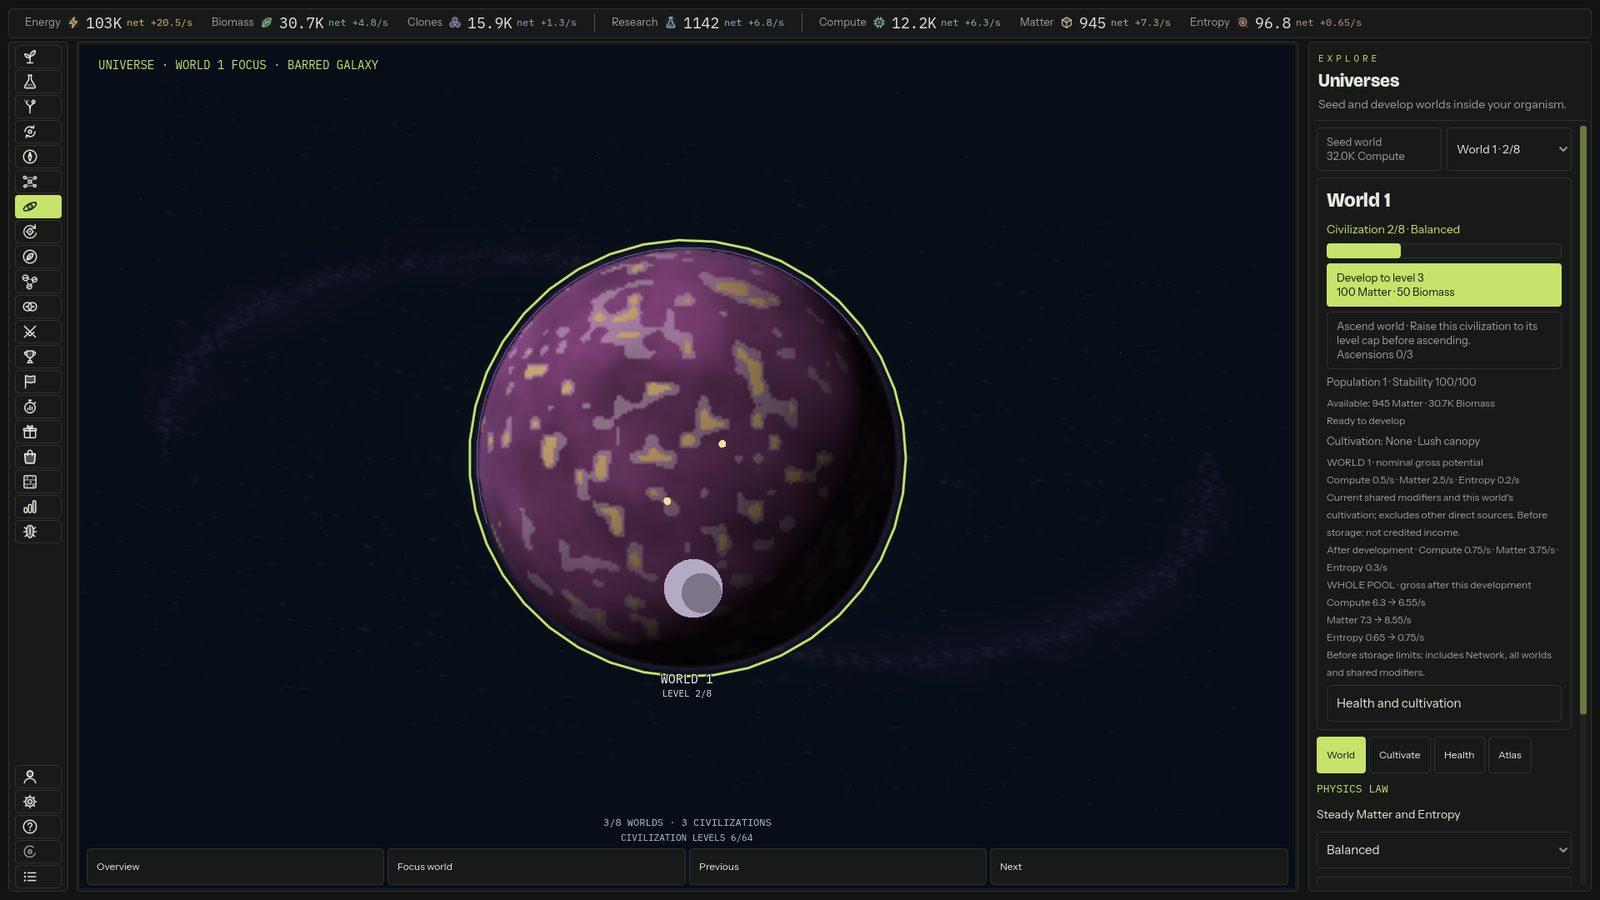
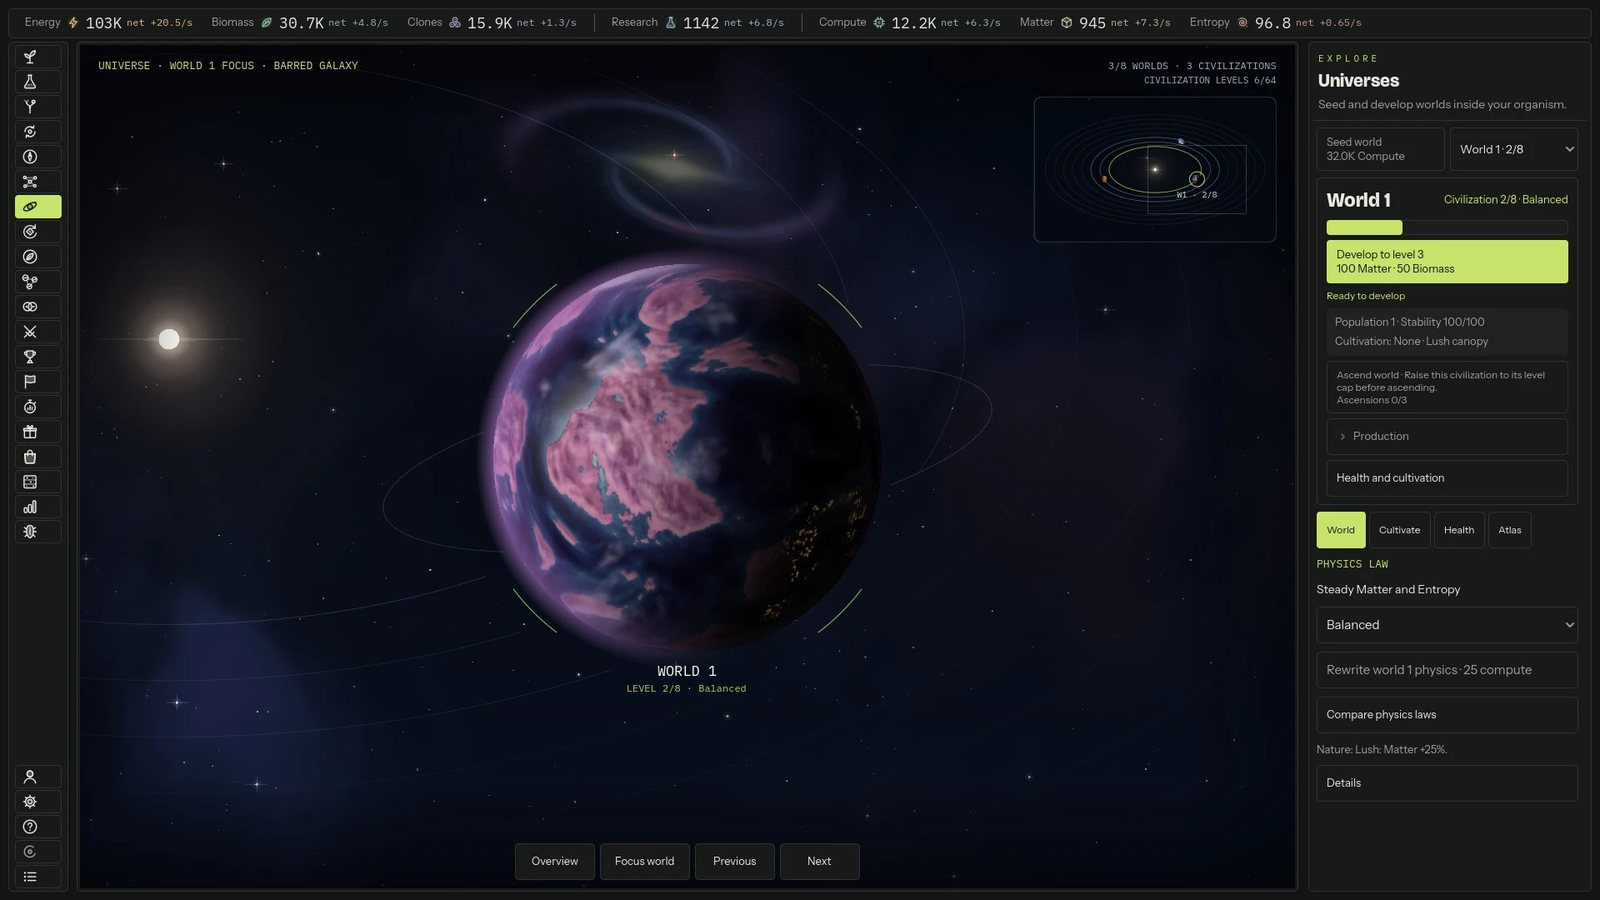
Use the current Steam screenshots on the home page

diff --git a/index.html b/index.html
@@ -16,7 +16,7 @@
 <link rel="preconnect" href="https://fonts.googleapis.com">
 <link rel="preconnect" href="https://fonts.gstatic.com" crossorigin>
 <link rel="stylesheet" href="https://fonts.googleapis.com/css2?family=Bricolage+Grotesque:opsz,wght@12..96,600;12..96,650;12..96,700;12..96,800&display=swap">
-<link rel="stylesheet" href="/style.css?v=20261022b">
+<link rel="stylesheet" href="/style.css?v=20261022c">
 </head>
 <body>
 <a class="skip" href="#main">Skip to content</a>
@@ -67,12 +67,9 @@
     </section>
 
     <section class="gallery" aria-label="Screenshots">
-      <a href="/assets/shots/grow.jpg"><img src="/assets/shots/grow.jpg" alt="A peacock adult in the organism view, with the build panel beside it" loading="lazy" width="1600" height="900"></a>
-      <a href="/assets/shots/stages.jpg"><img src="/assets/shots/stages.jpg" alt="The four life stages of a peacock: founder, developed, juvenile and adult" loading="lazy" width="1600" height="900"></a>
-      <a href="/assets/shots/morphs.jpg"><img src="/assets/shots/morphs.jpg" alt="A standard grey wolf beside a rare red colour morph" loading="lazy" width="1600" height="900"></a>
-      <a href="/assets/shots/pvp.jpg"><img src="/assets/shots/pvp.jpg" alt="A wolf and an octopus facing off in the PvP arena" loading="lazy" width="1600" height="900"></a>
-      <a href="/assets/shots/fighter.jpg"><img src="/assets/shots/fighter.jpg" alt="Species detail page for a golden tabby tiger morph with its stats" loading="lazy" width="1600" height="900"></a>
-      <a href="/assets/shots/universe.jpg"><img src="/assets/shots/universe.jpg" alt="The universe view with a purple planet in orbit" loading="lazy" width="1600" height="900"></a>
+      <a href="/assets/shots/collection.jpg"><img src="/assets/shots/collection.jpg" alt="The organism collection: all 60 species unlocked, each with its role, fight and farm stats and rare morphs" loading="lazy" width="1600" height="900"></a>
+      <a href="/assets/shots/arena.jpg"><img src="/assets/shots/arena.jpg" alt="A wolf strikes an octopus in the AI arena, with a list of opponents to choose from" loading="lazy" width="1600" height="900"></a>
+      <a href="/assets/shots/universe.jpg"><img src="/assets/shots/universe.jpg" alt="The universe view: a pink and blue world in orbit, ready to develop to level 3" loading="lazy" width="1600" height="900"></a>
     </section>
 
     <section class="wishlist" aria-labelledby="wl-title">

diff --git a/privacy.html b/privacy.html
@@ -13,7 +13,7 @@
 <link rel="preconnect" href="https://fonts.googleapis.com">
 <link rel="preconnect" href="https://fonts.gstatic.com" crossorigin>
 <link rel="stylesheet" href="https://fonts.googleapis.com/css2?family=Bricolage+Grotesque:opsz,wght@12..96,600;12..96,650;12..96,700;12..96,800&display=swap">
-<link rel="stylesheet" href="/style.css?v=20261022b">
+<link rel="stylesheet" href="/style.css?v=20261022c">
 </head>
 <body>
 <a class="skip" href="#policy">Skip to policy</a>

diff --git a/eula.html b/eula.html
@@ -13,7 +13,7 @@
 <link rel="preconnect" href="https://fonts.googleapis.com">
 <link rel="preconnect" href="https://fonts.gstatic.com" crossorigin>
 <link rel="stylesheet" href="https://fonts.googleapis.com/css2?family=Bricolage+Grotesque:opsz,wght@12..96,600;12..96,650;12..96,700;12..96,800&display=swap">
-<link rel="stylesheet" href="/style.css?v=20261022b">
+<link rel="stylesheet" href="/style.css?v=20261022c">
 </head>
 <body>
 <a class="skip" href="#terms">Skip to terms</a>

diff --git a/style.css b/style.css
@@ -100,7 +100,7 @@ th{color:var(--ink);font-weight:600;background:var(--panel)}
 
 @media(max-width:900px){
   .features{grid-template-columns:1fr}
-  .gallery{grid-template-columns:1fr 1fr}
+  .gallery{grid-template-columns:1fr}
   .wishlist{grid-template-columns:1fr}
   .doc-links{grid-template-columns:1fr}
   .glance{grid-template-columns:1fr 1fr}
